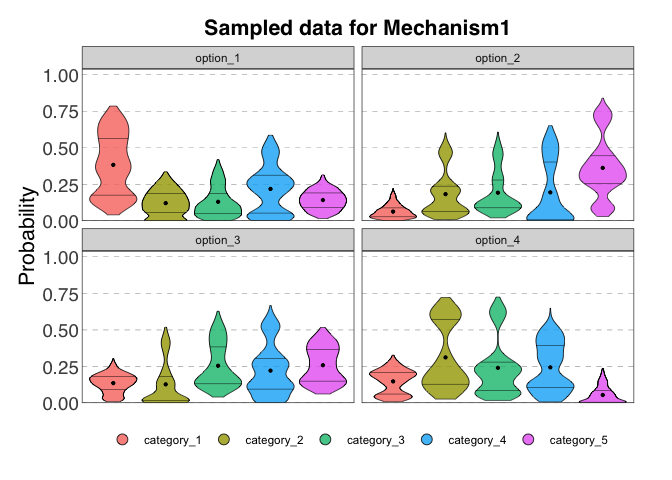
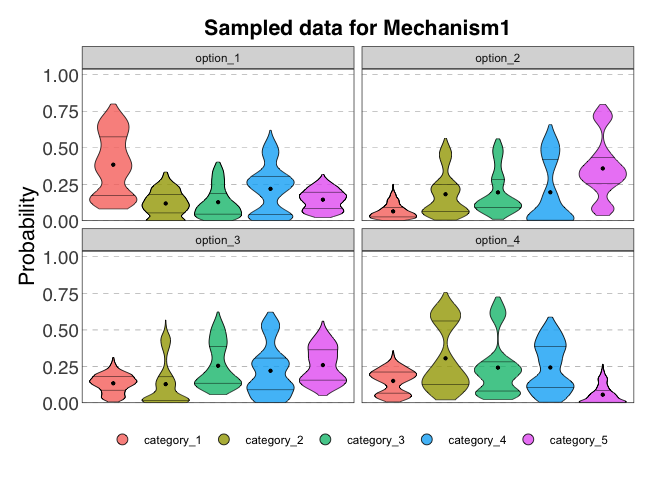
Update readme

diff --git a/README.md b/README.md
@@ -185,7 +185,7 @@ Data can be sampled from the elicitation object:
 
 ``` r
 samp_cont <- cont_sample_data(my_elic_cont, round = 2)
-#> ✔ Rescaled min and max for variable "var3".
+#> ✔ Rescaled min and max based on confidence estimates for variable "var3".
 #> ✔ Data for "var1", "var2", and "var3" sampled successfully using the "PERT" method.
 
 samp_cont
@@ -213,8 +213,8 @@ summary(samp_cont)
 #>   Var      Min     Q1 Median   Mean     Q3    Max
 #>   <chr>  <dbl>  <dbl>  <dbl>  <dbl>  <dbl>  <dbl>
 #> 1 var1  -4     -2     -1     -1      1      1    
-#> 2 var2  11.0   14.5   16.3   16.3   18.3   22.7  
-#> 3 var3   0.480  0.672  0.717  0.715  0.760  0.875
+#> 2 var2  11.0   14.5   16.3   16.3   18.4   22.7  
+#> 3 var3   0.454  0.672  0.717  0.715  0.760  0.879
 ```
 
 And plotted as violin plots:
@@ -358,16 +358,16 @@ samp_cat_unweighted
 #> # A tibble: 2,400 × 7
 #>    id      option   category_1 category_2 category_3 category_4 category_5
 #>    <chr>   <chr>         <dbl>      <dbl>      <dbl>      <dbl>      <dbl>
-#>  1 5ac97e0 option_1      0.613      0.110    0.0290     0.0196       0.228
-#>  2 5ac97e0 option_1      0.499      0.237    0.00765    0.0389       0.218
-#>  3 5ac97e0 option_1      0.549      0.179    0.00457    0.0215       0.246
-#>  4 5ac97e0 option_1      0.585      0.156    0.0277     0.0283       0.204
-#>  5 5ac97e0 option_1      0.640      0.153    0.00212    0.00739      0.197
-#>  6 5ac97e0 option_1      0.488      0.210    0.0138     0.0221       0.266
-#>  7 5ac97e0 option_1      0.586      0.243    0.00349    0.00539      0.162
-#>  8 5ac97e0 option_1      0.590      0.153    0.0150     0.0172       0.225
-#>  9 5ac97e0 option_1      0.542      0.153    0.0258     0.0271       0.251
-#> 10 5ac97e0 option_1      0.627      0.179    0.0156     0.0105       0.168
+#>  1 5ac97e0 option_1      0.685      0.143    0.0335     0.00540      0.133
+#>  2 5ac97e0 option_1      0.483      0.230    0.00660    0.0174       0.263
+#>  3 5ac97e0 option_1      0.590      0.202    0.00639    0.00511      0.197
+#>  4 5ac97e0 option_1      0.506      0.235    0.0185     0.0291       0.212
+#>  5 5ac97e0 option_1      0.541      0.269    0.0206     0.0185       0.151
+#>  6 5ac97e0 option_1      0.562      0.194    0.0190     0.0334       0.192
+#>  7 5ac97e0 option_1      0.626      0.217    0.00622    0.00423      0.147
+#>  8 5ac97e0 option_1      0.595      0.153    0.0316     0.0331       0.187
+#>  9 5ac97e0 option_1      0.552      0.233    0.0253     0.0163       0.173
+#> 10 5ac97e0 option_1      0.523      0.225    0.0231     0.00417      0.225
 #> # ℹ 2,390 more rows
 
 samp_cat_weighted <- cat_sample_data(my_elic_cat,
@@ -378,16 +378,16 @@ samp_cat_weighted
 #> # A tibble: 1,800 × 7
 #>    id      option   category_1 category_2 category_3 category_4 category_5
 #>    <chr>   <chr>         <dbl>      <dbl>      <dbl>      <dbl>      <dbl>
-#>  1 5ac97e0 option_1     0.0776      0.494     0.214     0.0208       0.194
-#>  2 5ac97e0 option_1     0.0952      0.441     0.218     0.0176       0.229
-#>  3 5ac97e0 option_1     0.139       0.546     0.0901    0.0480       0.177
-#>  4 5ac97e0 option_1     0.112       0.551     0.130     0.0242       0.183
-#>  5 5ac97e0 option_1     0.154       0.494     0.184     0.00983      0.158
-#>  6 5ac97e0 option_1     0.103       0.447     0.234     0.00978      0.207
-#>  7 5ac97e0 option_1     0.103       0.458     0.157     0.0202       0.262
-#>  8 5ac97e0 option_1     0.186       0.420     0.180     0.0120       0.202
-#>  9 5ac97e0 option_1     0.100       0.482     0.183     0.0154       0.220
-#> 10 5ac97e0 option_1     0.0853      0.571     0.160     0.00183      0.182
+#>  1 5ac97e0 option_1     0.131       0.453      0.144    0.0267       0.245
+#>  2 5ac97e0 option_1     0.111       0.555      0.107    0.00202      0.224
+#>  3 5ac97e0 option_1     0.0597      0.533      0.148    0.0395       0.220
+#>  4 5ac97e0 option_1     0.120       0.492      0.134    0.0178       0.236
+#>  5 5ac97e0 option_1     0.0624      0.539      0.184    0.0184       0.196
+#>  6 5ac97e0 option_1     0.120       0.523      0.137    0.0401       0.180
+#>  7 5ac97e0 option_1     0.0988      0.524      0.146    0.0155       0.215
+#>  8 5ac97e0 option_1     0.120       0.441      0.200    0.0414       0.198
+#>  9 5ac97e0 option_1     0.0858      0.550      0.159    0.0113       0.194
+#> 10 5ac97e0 option_1     0.172       0.412      0.148    0.0200       0.247
 #> # ℹ 1,790 more rows
 ```
 
@@ -399,11 +399,11 @@ summary(samp_cat_unweighted, option = "option_2")
 #> # A tibble: 5 × 7
 #>   category       Min      Q1 Median   Mean     Q3   Max
 #>   <chr>        <dbl>   <dbl>  <dbl>  <dbl>  <dbl> <dbl>
-#> 1 category_1 0.00114 0.0289  0.0548 0.0644 0.0898 0.223
-#> 2 category_2 0.0100  0.0642  0.144  0.184  0.238  0.603
-#> 3 category_3 0.0218  0.0904  0.129  0.194  0.280  0.609
-#> 4 category_4 0       0.00834 0.0989 0.196  0.403  0.652
-#> 5 category_5 0.0306  0.256   0.337  0.363  0.446  0.840
+#> 1 category_1 0.00220 0.0280  0.0533 0.0660 0.0916 0.251
+#> 2 category_2 0.00608 0.0662  0.151  0.183  0.250  0.565
+#> 3 category_3 0.0114  0.0932  0.133  0.196  0.284  0.562
+#> 4 category_4 0       0.00609 0.0933 0.196  0.421  0.659
+#> 5 category_5 0.0370  0.255   0.330  0.359  0.434  0.796
 ```
 
 And plotted as violin plots:
